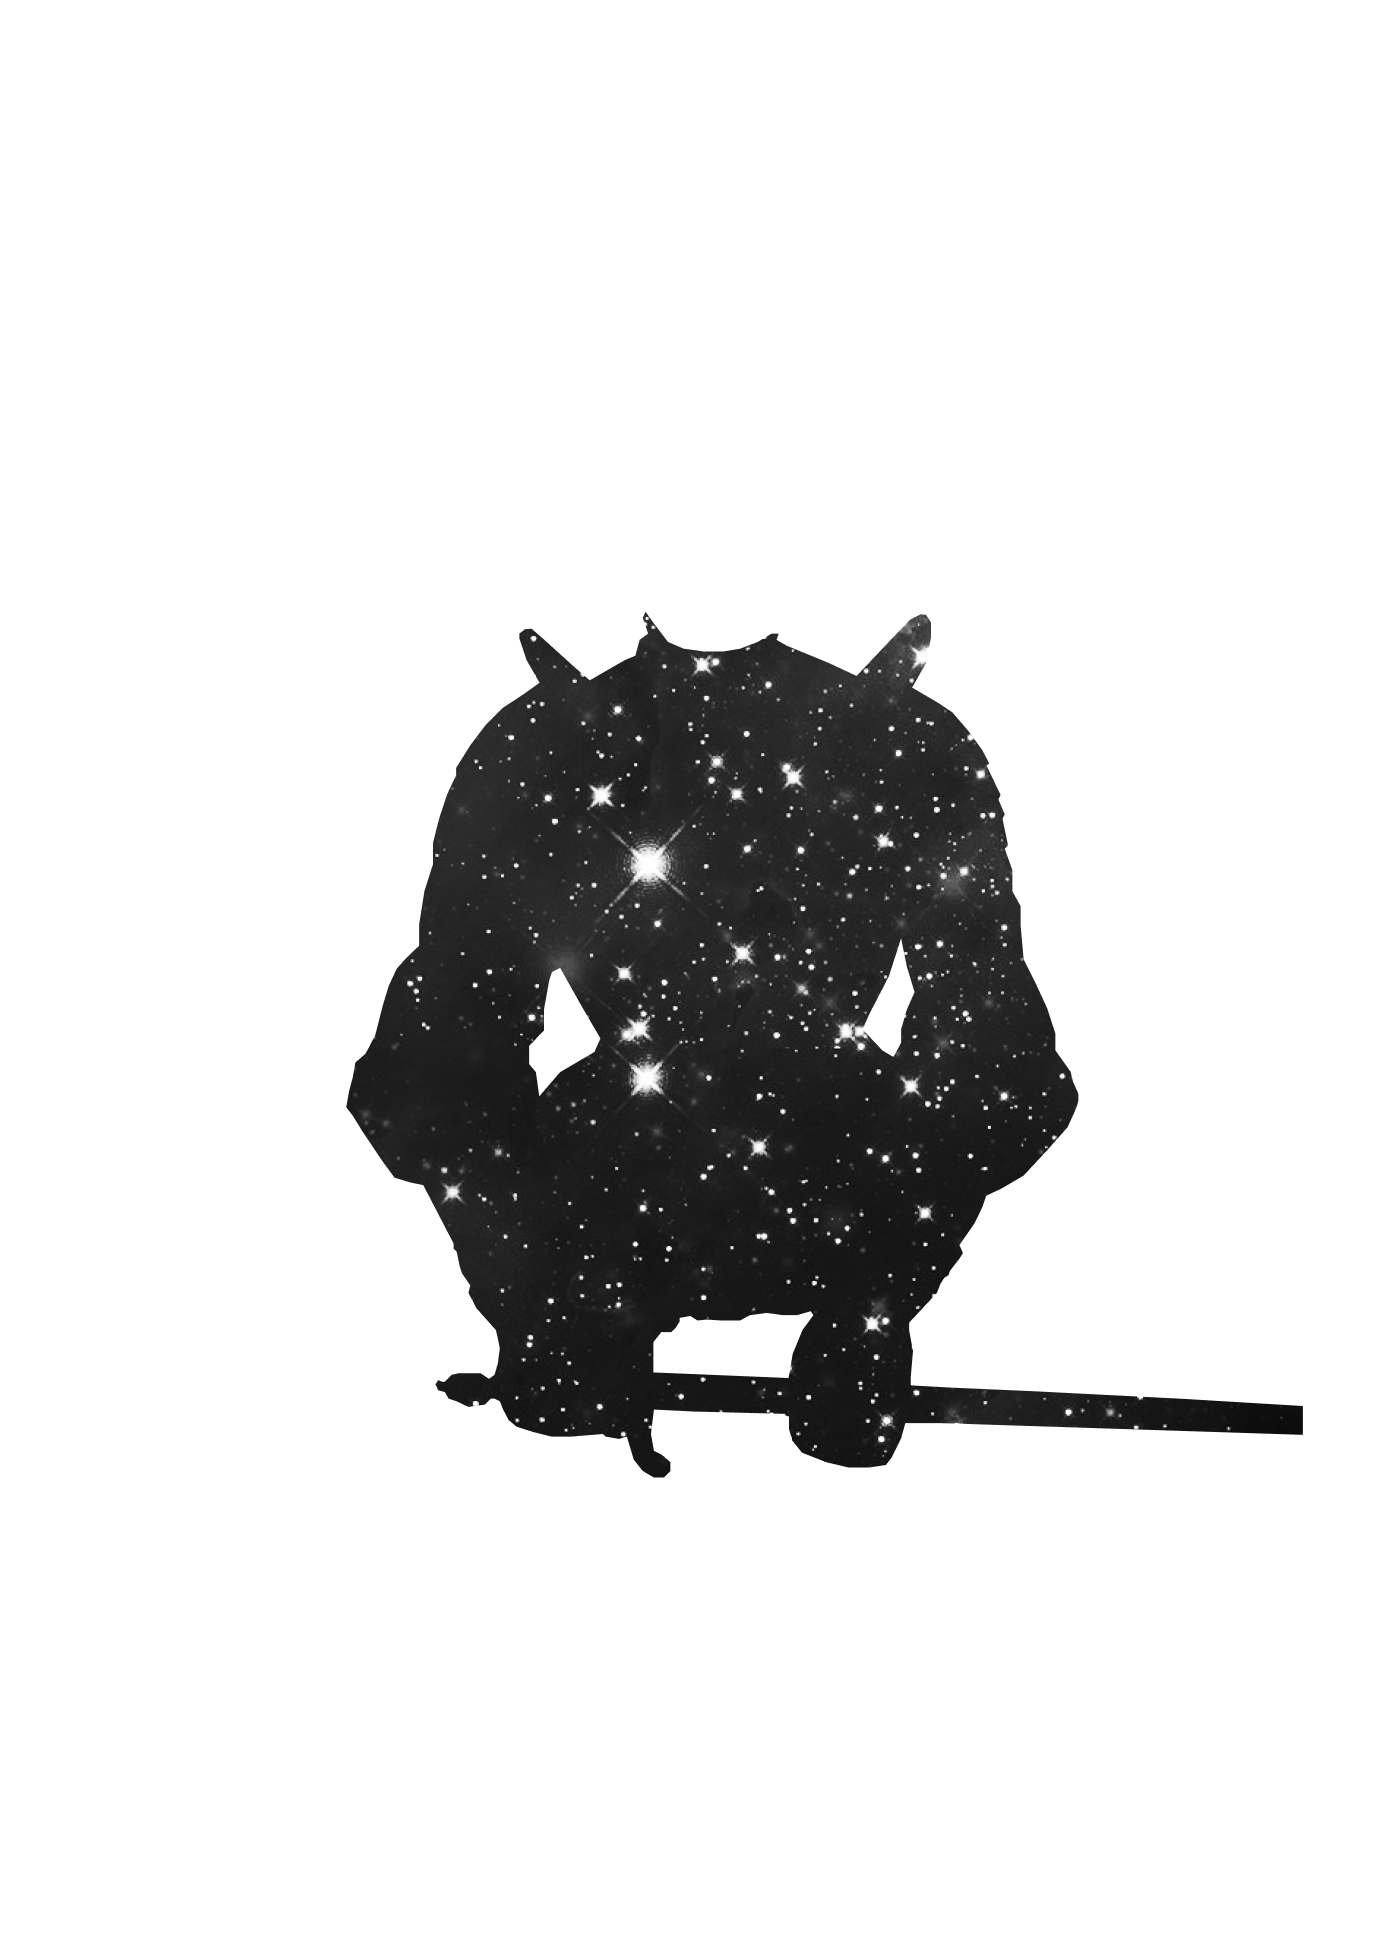
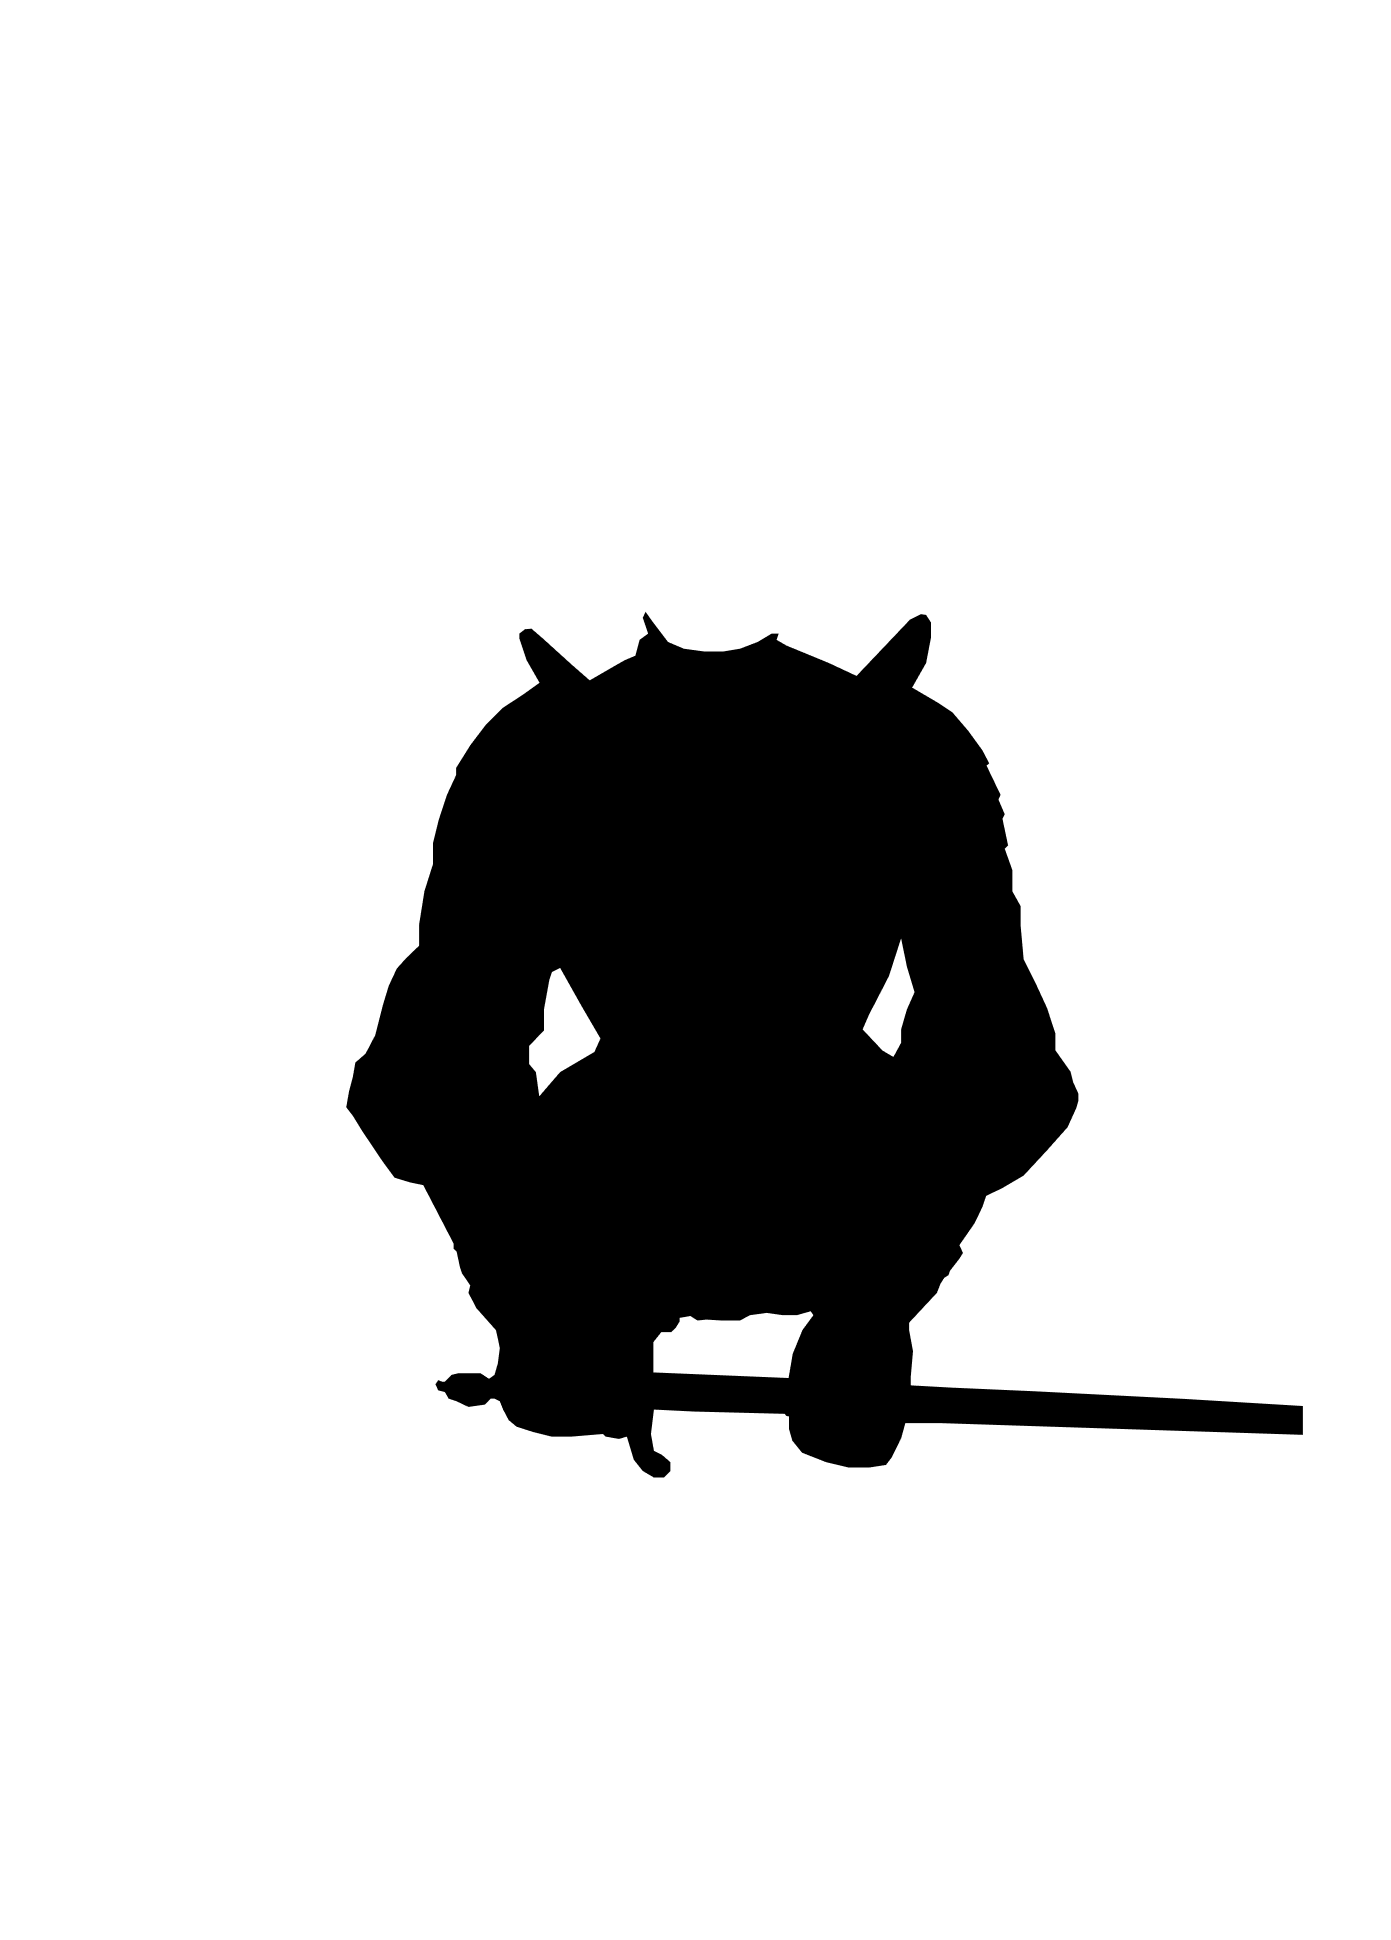
simplify mask images, add cards, fix artist shine

Changed region(s): [[0.2473, 0.3093, 0.8347, 0.7732]]

diff --git a/src/components/MotionCard.tsx b/src/components/MotionCard.tsx
@@ -36,7 +36,9 @@ export const MotionCard: FC<Props> = ({
   const [reverse, setReverse] = useState(false)
   const [hover, setHover] = useState(false)
   const [cardWidth, setCardWidth] = useState(0)
+  const cardWidthRef = useRef(0)
   const [cardHeight, setCardHeight] = useState(0)
+  const cardHeightRef = useRef(0)
 
   const cardRef = useRef<HTMLDivElement>(null)
 
@@ -44,6 +46,8 @@ export const MotionCard: FC<Props> = ({
     if (cardRef.current) {
       setCardWidth(cardRef.current.offsetWidth)
       setCardHeight(cardRef.current.offsetHeight)
+      cardWidthRef.current = cardRef.current.offsetWidth
+      cardHeightRef.current = cardRef.current.offsetHeight
     }
   }, [window.innerWidth, window.innerHeight])
 
@@ -148,10 +152,10 @@ export const MotionCard: FC<Props> = ({
           <ArtistShine
             style={{
               background: artistBackground(rotateX.get(), rotateY.get()),
-              width: cardWidth / 9.8,
-              height: cardWidth / 9.8,
-              top: cardHeight / 21.8,
-              right: cardWidth / 15.7,
+              width: cardWidthRef.current / 9.8,
+              height: cardWidthRef.current / 9.8,
+              top: cardHeightRef.current / 21.8,
+              right: cardWidthRef.current / 15.7,
               opacity: hover ? 0.65 : 0.2,
             }}
           />
@@ -246,16 +250,16 @@ export const MotionCard: FC<Props> = ({
           <ArtistBrightBackground
             style={{
               opacity: hover ? 0.1 : 0.05,
-              width: cardWidth / 10,
-              height: cardWidth / 10,
-              top: cardHeight / 21.2,
-              right: cardWidth / 15.5,
+              width: cardWidthRef.current / 10,
+              height: cardWidthRef.current / 10,
+              top: cardHeightRef.current / 21.2,
+              right: cardHeightRef.current / 21.9,
             }}
           />
 
           <BrightBackground
             style={{
-              opacity: hover ? 0.2 : 0.1,
+              opacity: hover ? 0.2 : 0.05,
             }}
           />
 

diff --git a/src/components/Cards.tsx b/src/components/Cards.tsx
@@ -6,6 +6,16 @@ export const Cards: FC = () => {
   return (
     <Container>
       <MotionCard
+        cardImage="proserpine"
+        cardImageMask="proserpine-mask"
+        shineType="lines"
+      />
+      <MotionCard
+        cardImage="mariana-by-the-south"
+        cardImageMask="mariana-by-the-south-mask"
+        shineType="diagonal"
+      />
+      <MotionCard
         cardImage="joan-of-arc-2"
         cardImageMask="joan-of-arc-2-mask"
         shineType="lines"

diff --git a/index.html b/index.html
@@ -4,7 +4,7 @@
     <meta charset="UTF-8" />
     <link rel="icon" type="image/svg+xml" href="/vite.svg" />
     <meta name="viewport" content="width=device-width, initial-scale=1.0" />
-    <title>art cards</title>
+    <title>gallery quest</title>
     <link rel="preconnect" href="https://fonts.googleapis.com" />
     <link rel="preconnect" href="https://fonts.gstatic.com" crossorigin />
     <link
